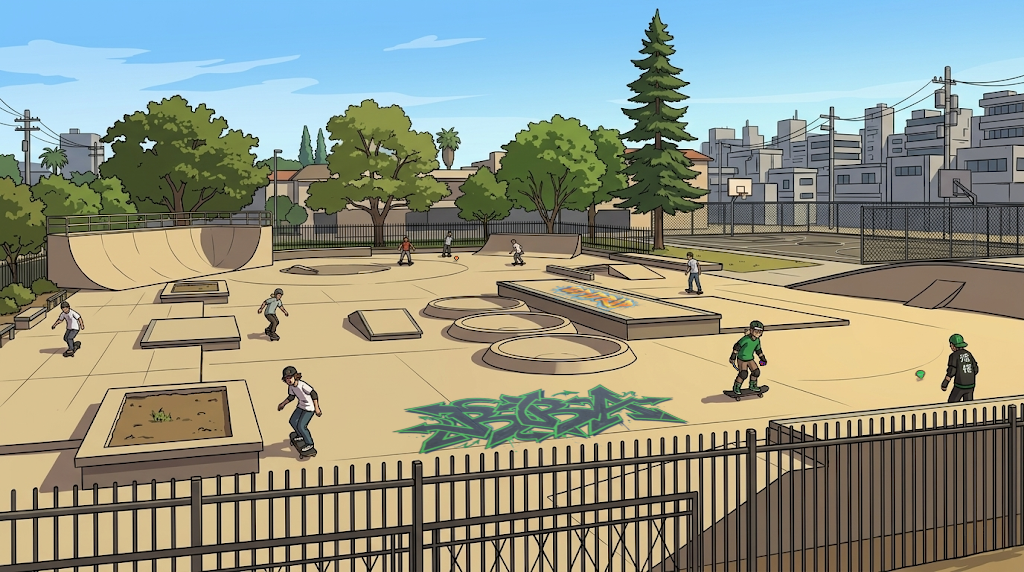
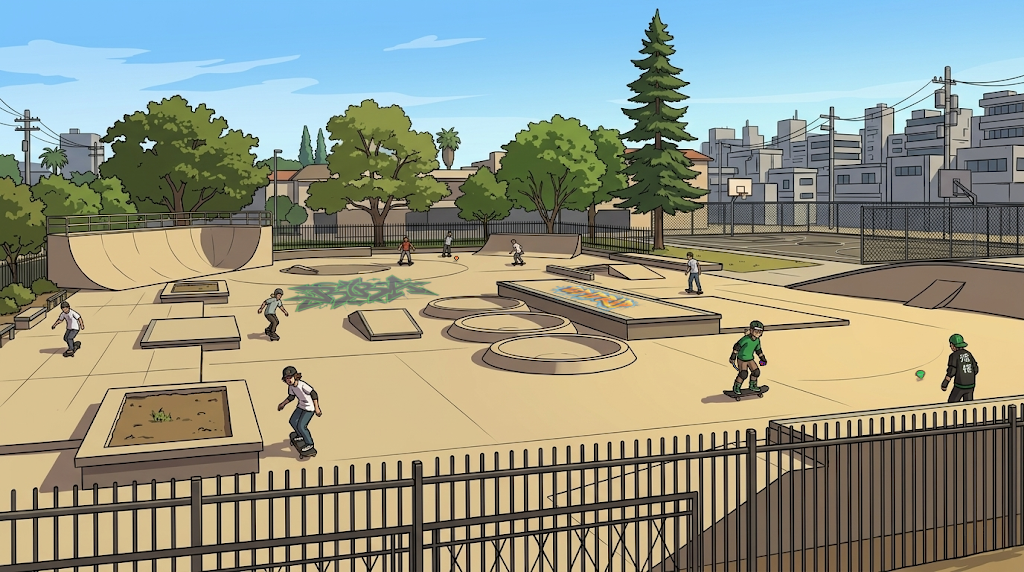
various fixes

Changed region(s): [[0.375, 0.6538, 0.6875, 0.8024], [0.2812, 0.4755, 0.4375, 0.5647]]

diff --git a/stadiums.js b/stadiums.js
@@ -216,7 +216,7 @@ window.stadiumsDB = [
                 name: "Head to Head Concrete Arena",
                 size: "average",
                 desc: "A standard-sized stadium found at a skate park in the city. This one is seems to favor head-to-head clashes.",
-                physics: { friction: 0.9825, radiusMod: 0.72 },
+                physics: { friction: 0.9889, radiusMod: 0.72 },
                 ringOutZones: [], 
                 visuals: {
                     // 1:1 perfectly square image!
